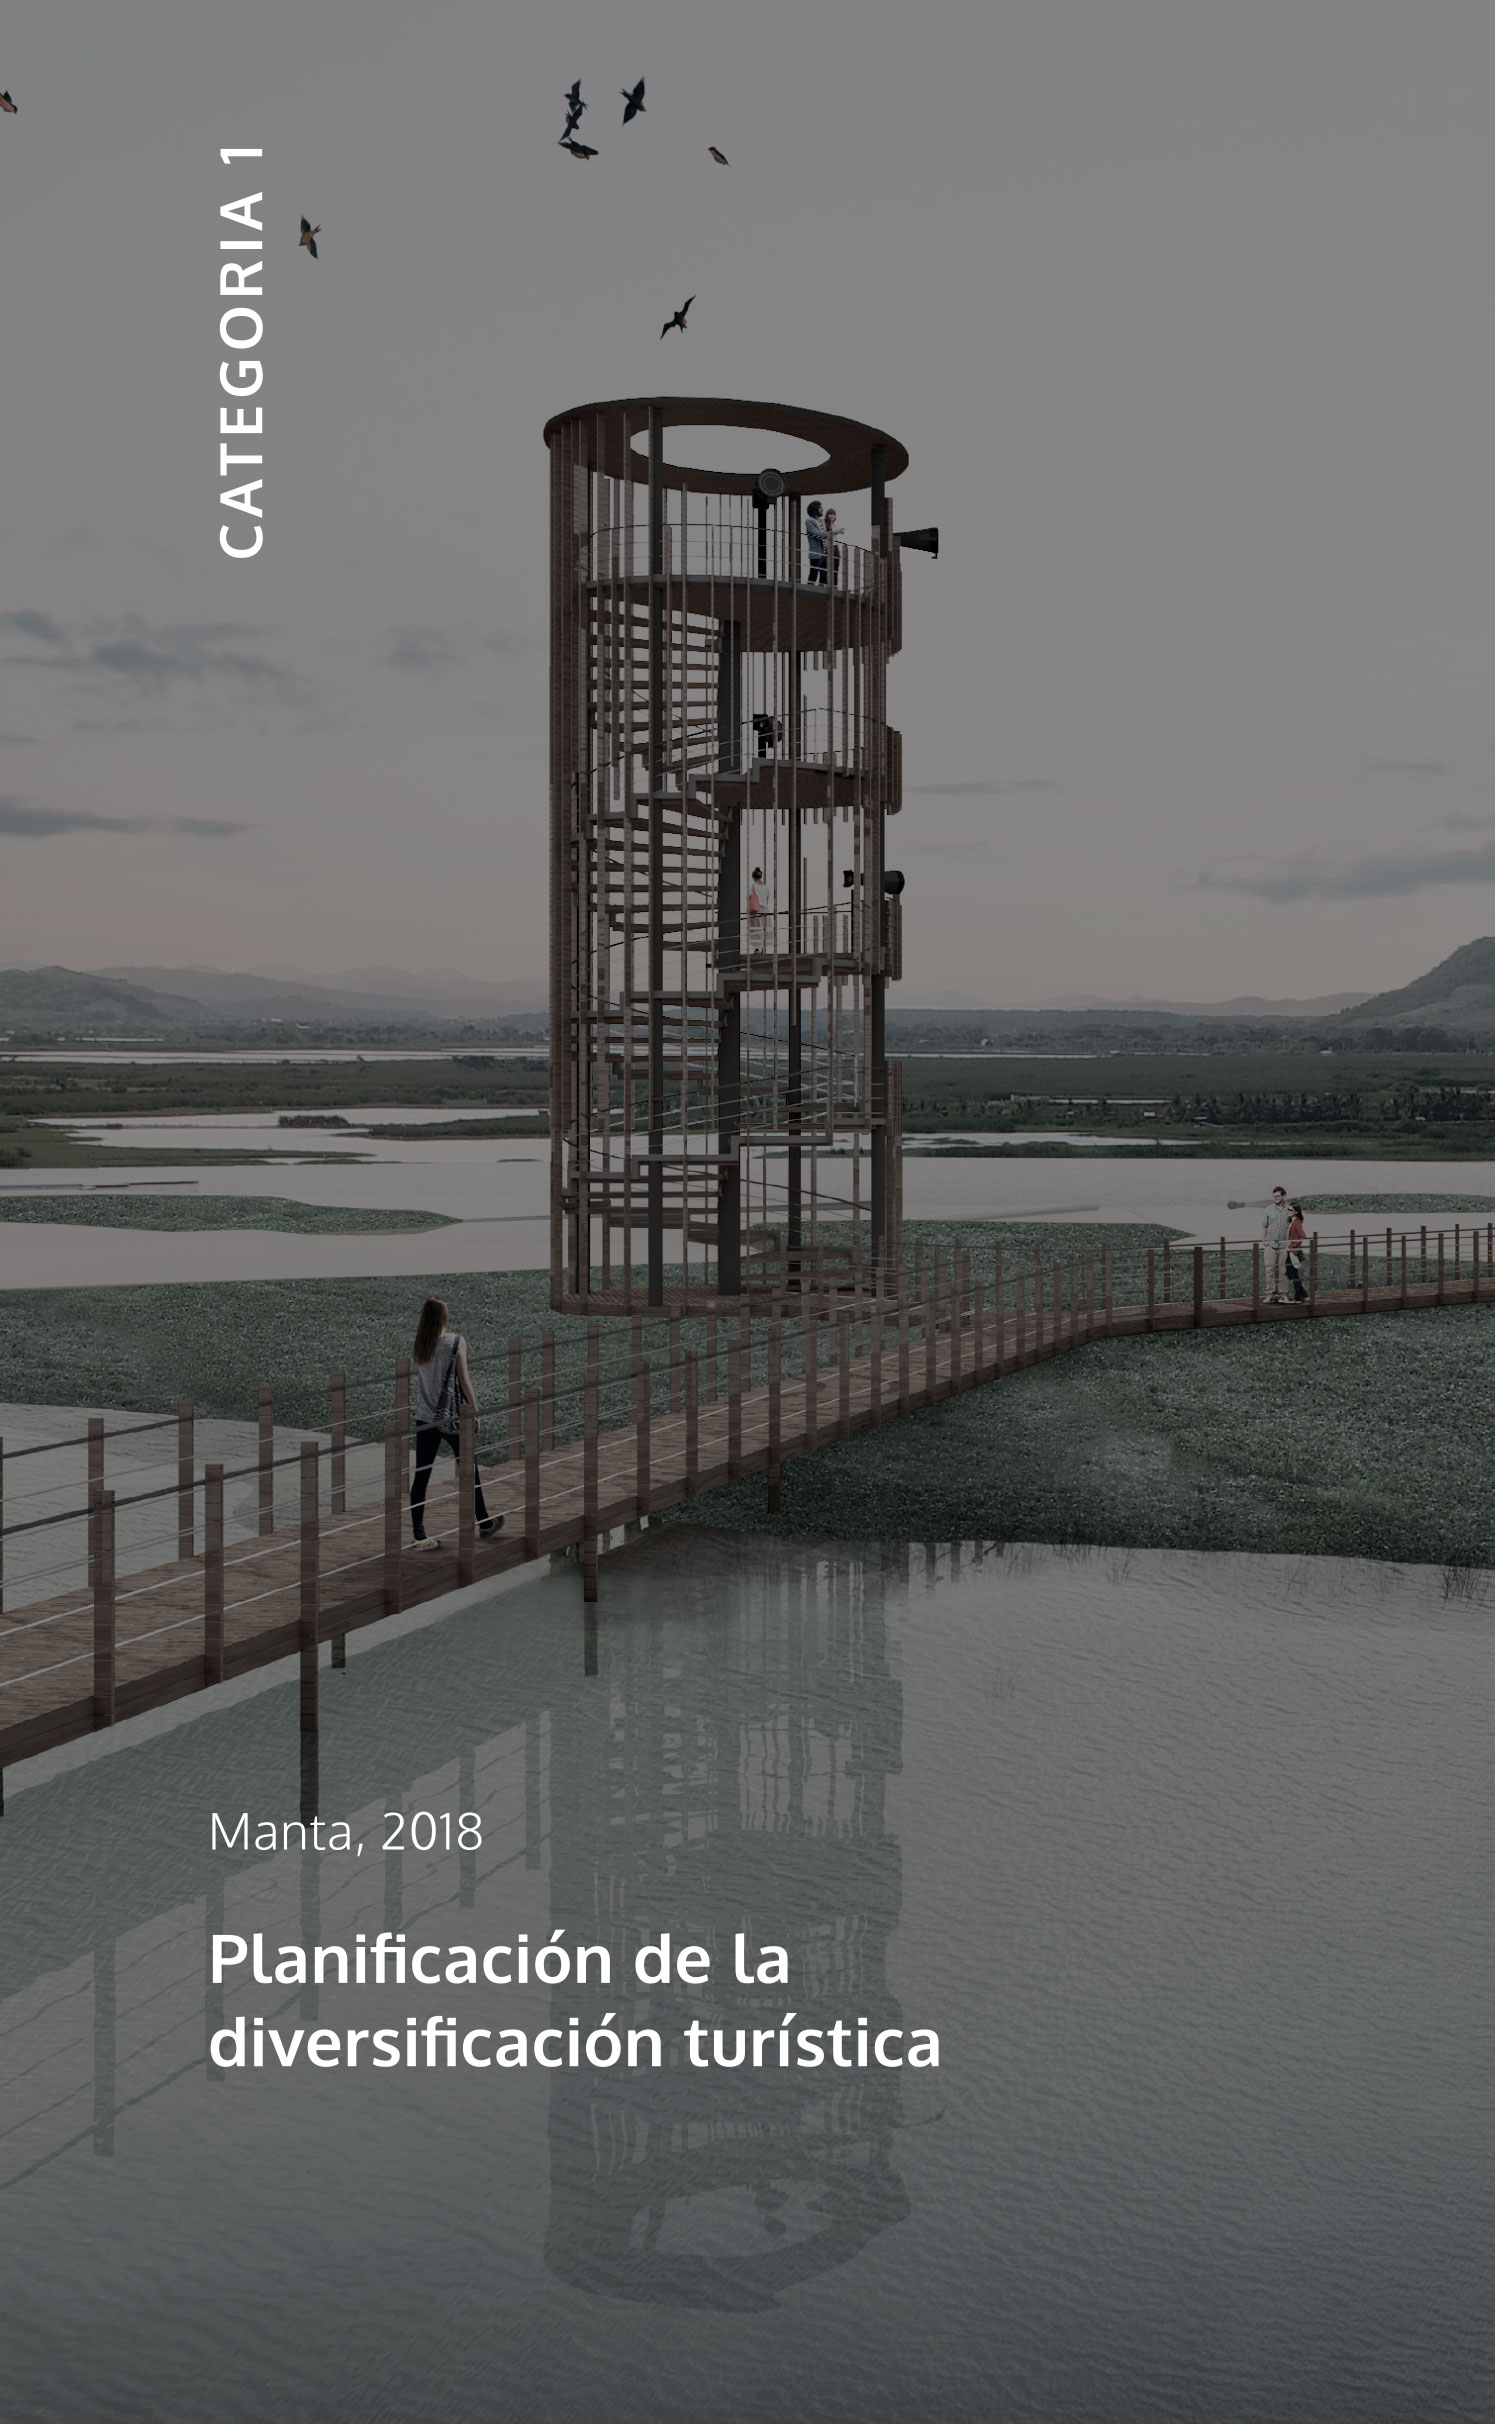
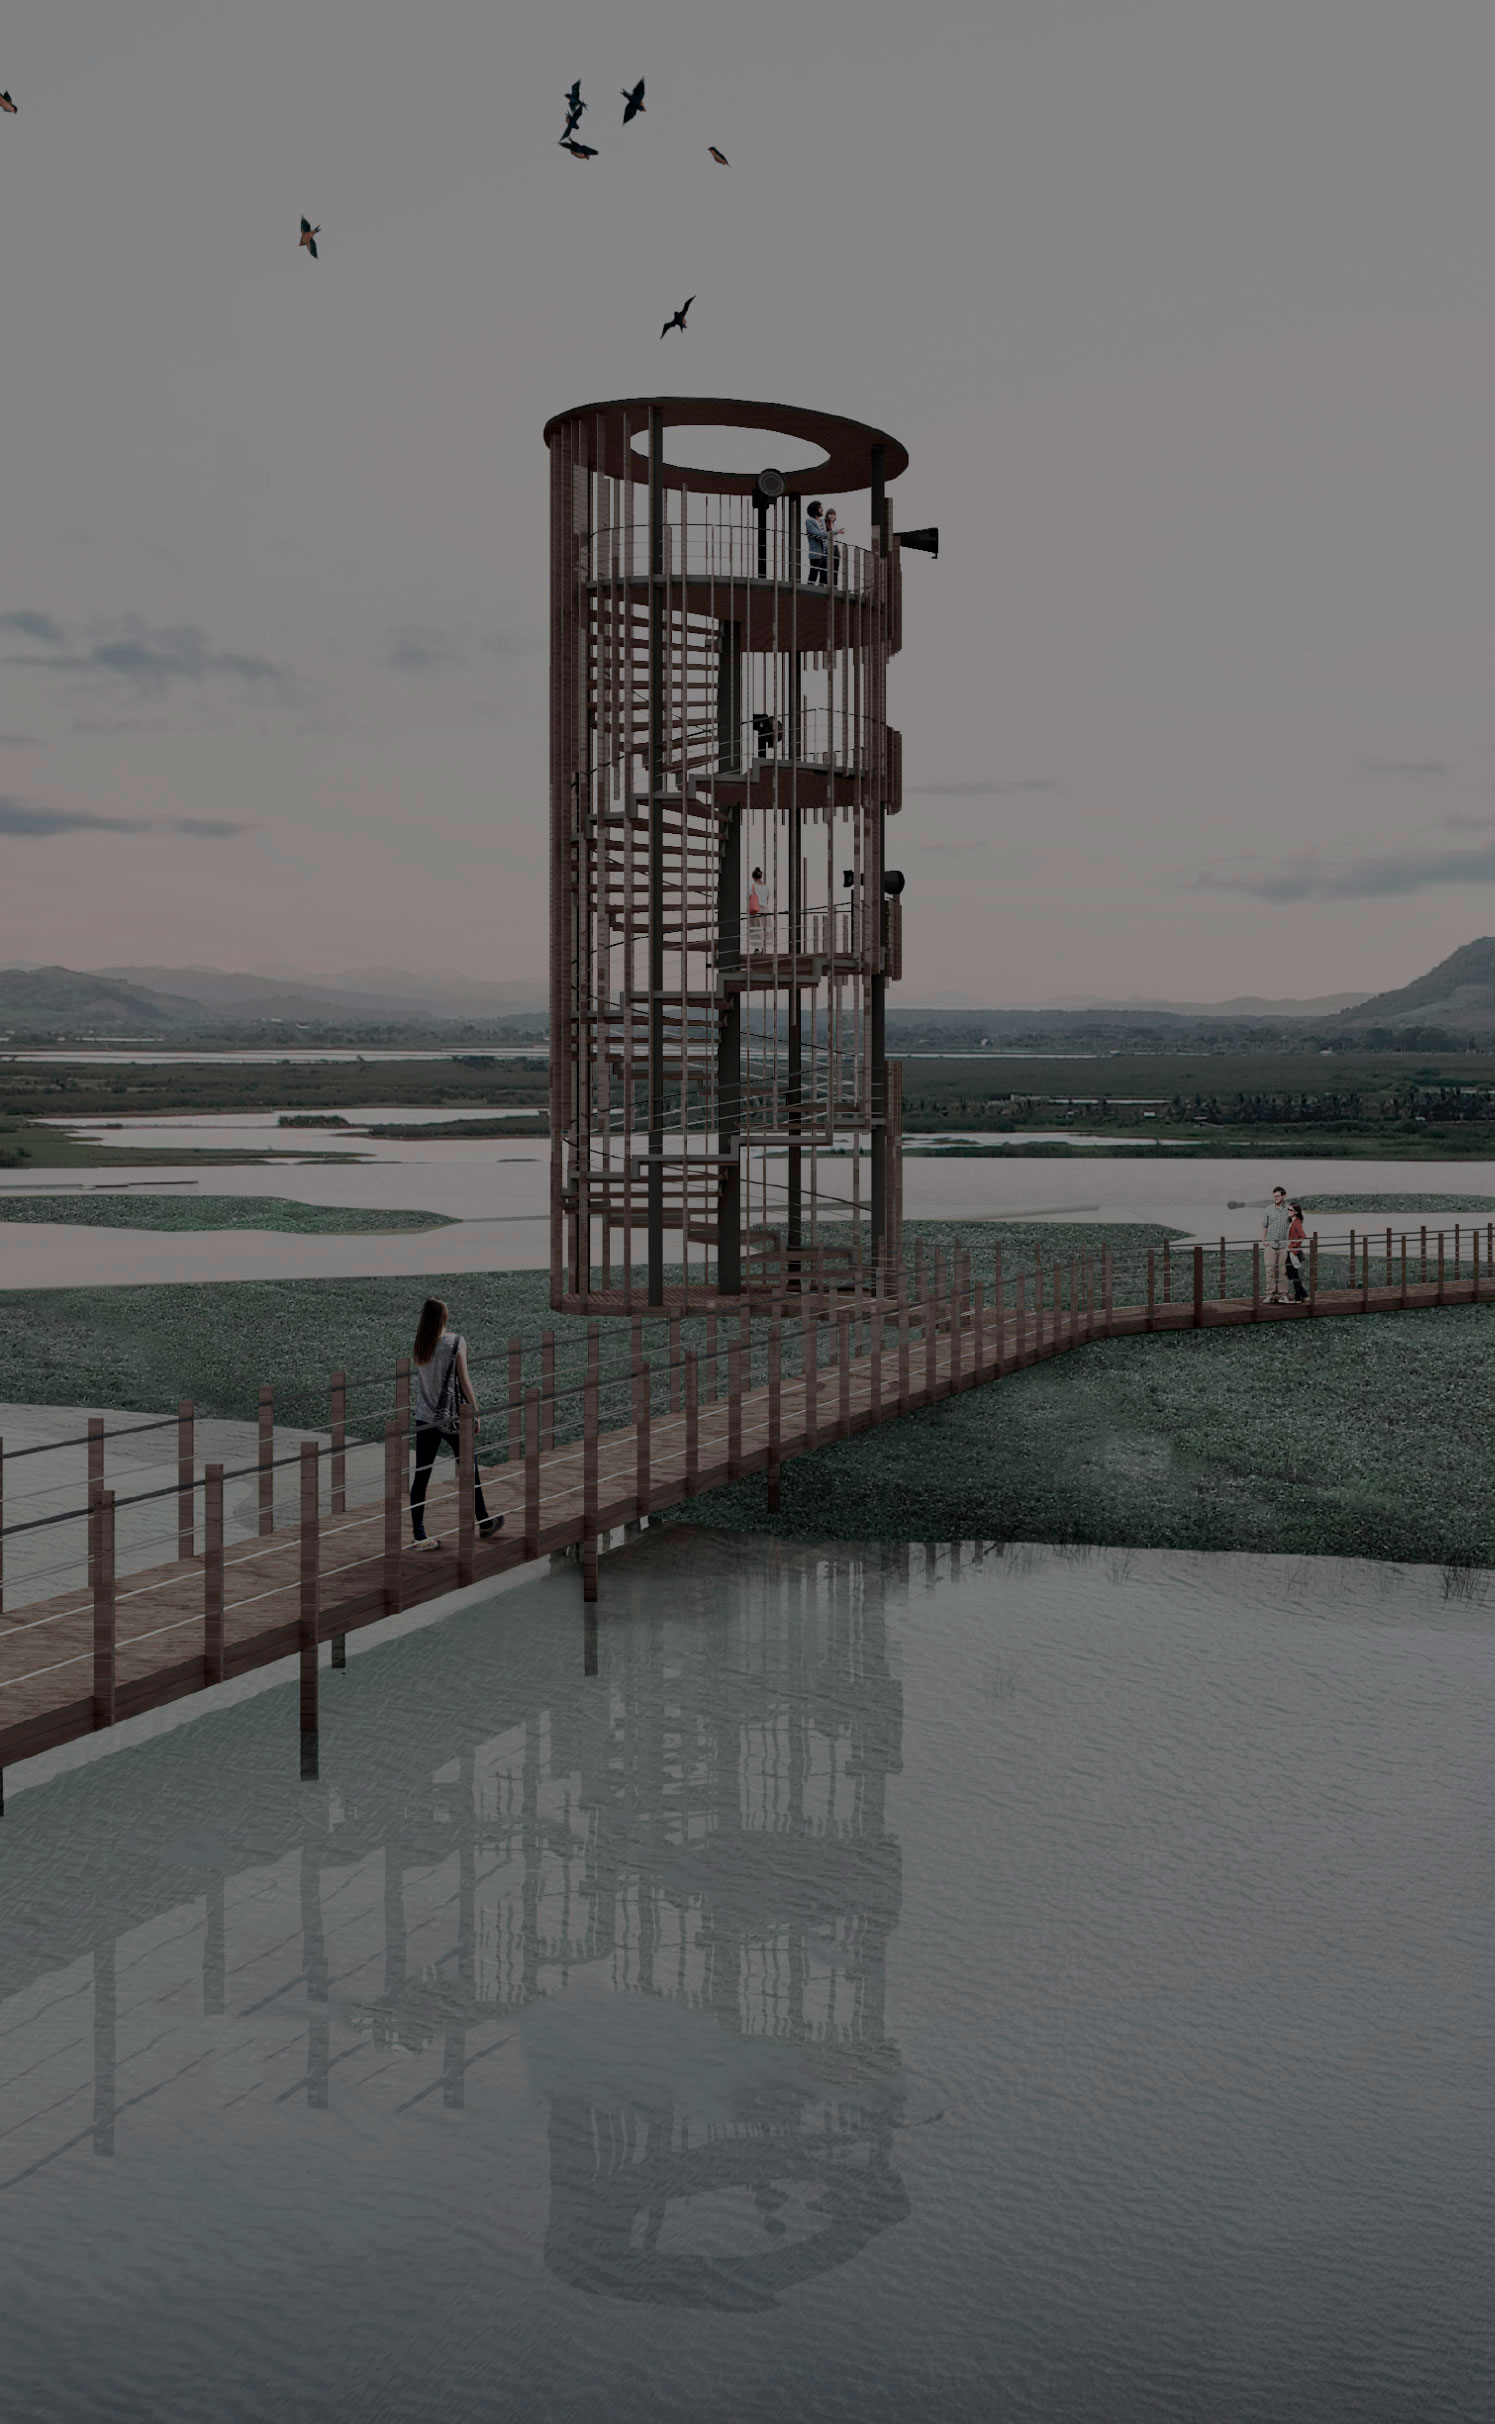
Images

Changed region(s): [[0.1231, 0.7426, 0.6462, 0.8663], [0.1231, 0.0619, 0.1846, 0.2475]]

diff --git a/src/pages/proyecto_general.js b/src/pages/proyecto_general.js
@@ -29,22 +29,50 @@ class General extends Component{
           <Row gutter={16}>
             <Col md={6} xs={12}>
               <Card bordered={false}>
-                <img className="category" src={categoria1}></img>
+                <div className="category">
+                  <img src={categoria1}></img>
+                  <p className="textCategoryVertival">CATEGORIA 1</p>
+                  <div className="textCategory">
+                    <p className="textCategoryP">Manta, 2018</p>
+                    <p>Planificación de la diversificación turística</p>
+                  </div>
+                </div>
               </Card>
             </Col>
             <Col md={6} xs={12}>
               <Card bordered={false}>
-                <img className="category" src={categoria2}></img>
+                <div className="category">
+                  <img src={categoria2}></img>
+                  <p className="textCategoryVertival">CATEGORIA 1</p>
+                  <div className="textCategory">
+                    <p className="textCategoryP">Manta, 2018</p>
+                    <p>Planificación de la diversificación turística</p>
+                  </div>
+                </div>
               </Card>
             </Col>
             <Col md={6} xs={12}>
               <Card bordered={false}>
-                <img className="category" src={categoria3}></img>
+                <div className="category">
+                  <img src={categoria3}></img>
+                  <p className="textCategoryVertival">CATEGORIA 1</p>
+                  <div className="textCategory">
+                    <p className="textCategoryP">Manta, 2018</p>
+                    <p>Planificación de la diversificación turística</p>
+                  </div>
+                </div>
               </Card>
             </Col>
             <Col md={6} xs={12}>
               <Card bordered={false}>
-                <img className="category" src={categoria4}></img>
+                <div className="category">
+                  <img src={categoria4}></img>
+                  <p className="textCategoryVertival">CATEGORIA 1</p>
+                  <div className="textCategory">
+                    <p className="textCategoryP">Manta, 2018</p>
+                    <p>Planificación de la diversificación turística</p>
+                  </div>
+                </div>
               </Card>
             </Col>
           </Row>
@@ -53,22 +81,50 @@ class General extends Component{
           <Row gutter={16}>
             <Col md={6} xs={12}>
               <Card bordered={false}>
-                <img className="category" src={categoria1}></img>
+                <div className="category">
+                  <img src={categoria1}></img>
+                  <p className="textCategoryVertival">CATEGORIA 1</p>
+                  <div className="textCategory">
+                    <p className="textCategoryP">Manta, 2018</p>
+                    <p>Planificación de la diversificación turística</p>
+                  </div>
+                </div>
               </Card>
             </Col>
             <Col md={6} xs={12}>
               <Card bordered={false}>
-                <img className="category" src={categoria2}></img>
+                <div className="category">
+                  <img src={categoria2}></img>
+                  <p className="textCategoryVertival">CATEGORIA 1</p>
+                  <div className="textCategory">
+                    <p className="textCategoryP">Manta, 2018</p>
+                    <p>Planificación de la diversificación turística</p>
+                  </div>
+                </div>
               </Card>
             </Col>
             <Col md={6} xs={12}>
               <Card bordered={false}>
-                <img className="category" src={categoria3}></img>
+                <div className="category">
+                  <img src={categoria3}></img>
+                  <p className="textCategoryVertival">CATEGORIA 1</p>
+                  <div className="textCategory">
+                    <p className="textCategoryP">Manta, 2018</p>
+                    <p>Planificación de la diversificación turística</p>
+                  </div>
+                </div>
               </Card>
             </Col>
             <Col md={6} xs={12}>
               <Card bordered={false}>
-                <img className="category" src={categoria4}></img>
+                <div className="category">
+                  <img src={categoria4}></img>
+                  <p className="textCategoryVertival">CATEGORIA 1</p>
+                  <div className="textCategory">
+                    <p className="textCategoryP">Manta, 2018</p>
+                    <p>Planificación de la diversificación turística</p>
+                  </div>
+                </div>
               </Card>
             </Col>
           </Row>

diff --git a/src/pages/index.css b/src/pages/index.css
@@ -449,6 +449,7 @@
   margin-bottom: 0px;
 }
 .proyecto img{
+  position: relative;
   width: 23%;
   padding-left: 15px;
   padding-right: 15px;
@@ -710,9 +711,16 @@
   margin-top: 80px;
 }
 .category{
-  margin: 0px!important;
   width: 100%;
+  display: flex !important;
+  position: relative;
+  vertical-align: middle;
+  align-content: center !important;
+  align-items: center!important;
+  justify-content: center;
+  margin: 0px!important;
 }
+
 .ant-card-body{
   padding: 0px!important;
   margin: -8px!important;
@@ -1000,6 +1008,33 @@ padding-top: 30%;
 }
 .generalImg{
   margin-top: 2%!important;
+}
+.category img{
+  margin: 0px!important;
+}
+.textCategory{
+  width: 200px;
+  position: absolute;
+  left: 8%;
+  bottom: 12%;
+  font-size: 15px;
+  color:  white;
+  text-shadow: 3px 6px 5px black;
+
+}
+.textCategoryVertival{
+  writing-mode: vertical-lr;
+  transform: rotate(180deg);
+  text-shadow: 0px 0px 0px black !important;
+  position: absolute;
+  left: 8%;
+  top: 7%;
+  font-size: 15px;
+  color:  white;
+}
+.textCategoryP{
+  text-shadow: 0px 0px 4px black !important;
+  font-size: 12px!important;
 }
 
 /*----------- Home CSS------------*/

diff --git a/src/pages/contacto.js b/src/pages/contacto.js
@@ -54,22 +54,22 @@ class Contacto extends Component{
         </div>
         <div style={{padding: '0px', margin: '0px', width:'99%' }}>
         <Row>
-          <Col span={6}>
+          <Col md={6} xs={12}>
             <Card bordered={false}>
               <img className="category" src={categoria1}></img>
             </Card>
           </Col>
-          <Col span={6}>
+          <Col md={6} xs={12}>
             <Card bordered={false}>
               <img className="category" src={categoria2}></img>
             </Card>
           </Col>
-          <Col span={6}>
+          <Col md={6} xs={12}>
             <Card bordered={false}>
               <img className="category" src={categoria3}></img>
             </Card>
           </Col>
-          <Col span={6}>
+          <Col md={6} xs={12}>
             <Card bordered={false}>
               <img className="category" src={categoria4}></img>
             </Card>

diff --git a/src/pages/proyecto_template.js b/src/pages/proyecto_template.js
@@ -18,8 +18,6 @@ import galeria8 from '../images/galeria8.jpg';
 import galeria9 from '../images/galeria9.jpg';
 import proyecto1 from '../images/proyecto1.jpg';
 import proyecto2 from '../images/proyecto2.jpg';
-import proyecto3 from '../images/proyecto3.jpg';
-import proyecto4 from '../images/proyecto4.jpg';
 import linea from '../images/linea.jpg';
 import liston from '../images/liston.jpg';
 import 'antd/dist/antd.css';
@@ -197,8 +195,8 @@ class Template extends Component {
           <div className="proyecto">
             <img src={proyecto1}></img>
             <img src={proyecto2}></img>
-            <img src={proyecto3}></img>
-            <img src={proyecto4}></img>
+            <img src={proyecto1}></img>
+            <img src={proyecto1}></img>
           </div>
         </Row>
         <Row>

diff --git a/src/pages/oficina.js b/src/pages/oficina.js
@@ -93,7 +93,6 @@ class Oficina extends Component{
               </p>
             </div>
           </div>
-
         </Row>
         <div className="subtitle2" style={{margin:'0px', padding:'0px' }}>
           <h4 className="mainText1">El equipo</h4>
